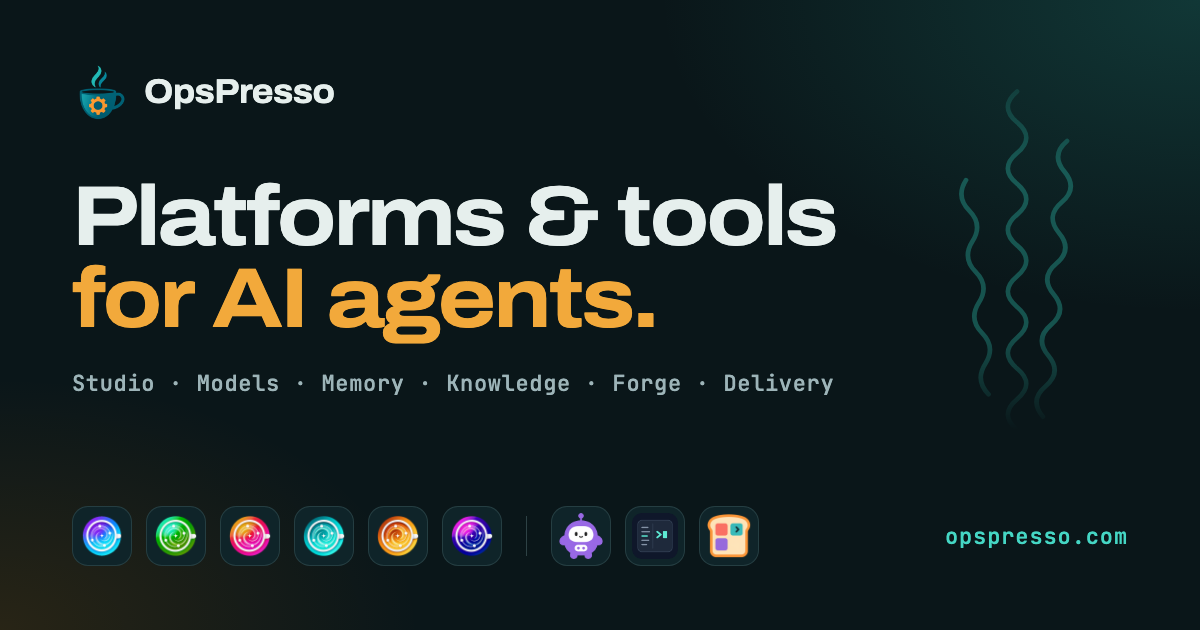
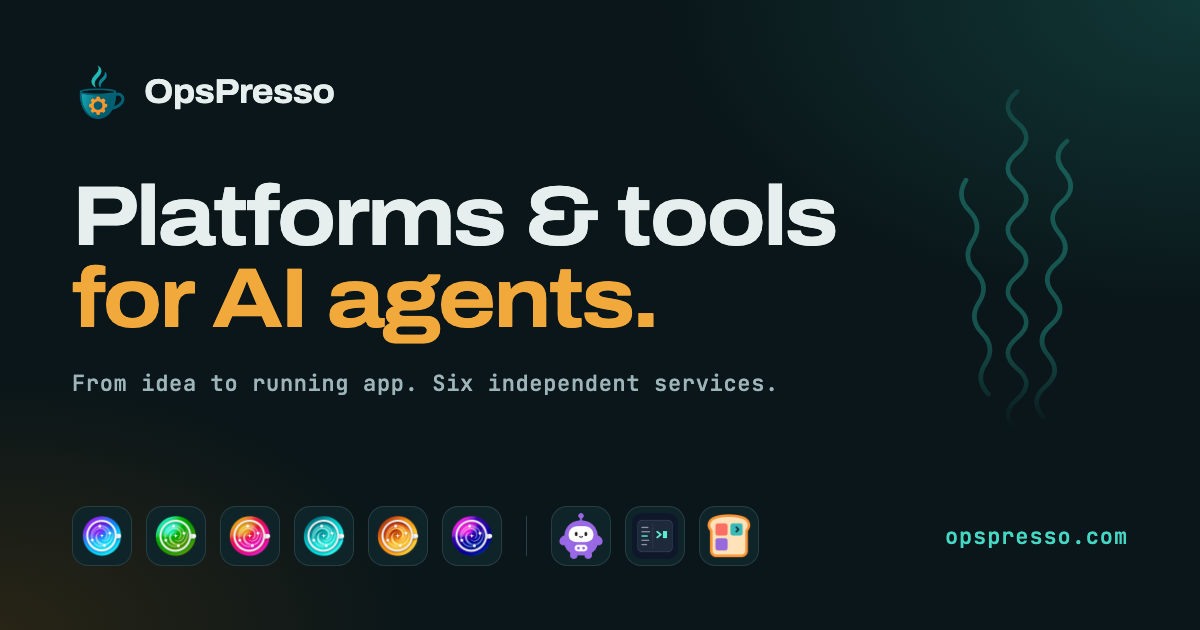
docs: align homepage with current Agent Platform (#6)

Changed region(s): [[0.0617, 0.573, 0.7092, 0.6333]]

diff --git a/docs/index.html b/docs/index.html
@@ -5,7 +5,7 @@
     <meta charset="utf-8">
     <meta name="viewport" content="width=device-width, initial-scale=1.0">
     <title>OpsPresso — Platforms and tools for AI agents</title>
-    <meta name="description" content="Build and operate AI agents with Studio, Models, Memory, Knowledge, Forge, and Delivery. Monitor resources and improve daily workflows with VibeMon, romty, and Toast.">
+    <meta name="description" content="Take ideas from agent conversations to running apps with six independent services: Studio, Models, Memory, Knowledge, Forge, and Delivery. Plus VibeMon, romty, and Toast.">
 
     <link rel="canonical" href="https://opspresso.com/">
     <link rel="icon" href="favicon.ico" sizes="any">
@@ -17,7 +17,7 @@
     <meta property="og:type" content="website">
     <meta property="og:url" content="https://opspresso.com/">
     <meta property="og:title" content="OpsPresso — Platforms and tools for AI agents">
-    <meta property="og:description" content="Build and operate AI agents with Studio, Models, Memory, Knowledge, Forge, and Delivery. Monitor resources and improve daily workflows with VibeMon, romty, and Toast.">
+    <meta property="og:description" content="Take ideas from agent conversations to running apps with six independent services: Studio, Models, Memory, Knowledge, Forge, and Delivery. Plus VibeMon, romty, and Toast.">
     <meta property="og:site_name" content="OpsPresso">
     <meta property="og:image" content="https://opspresso.com/images/og.png">
     <meta property="og:image:type" content="image/png">
@@ -26,7 +26,7 @@
     <meta property="og:image:alt" content="OpsPresso — Platforms and tools for AI agents">
     <meta name="twitter:card" content="summary_large_image">
     <meta name="twitter:title" content="OpsPresso — Platforms and tools for AI agents">
-    <meta name="twitter:description" content="Build and operate AI agents with Studio, Models, Memory, Knowledge, Forge, and Delivery. Monitor resources and improve daily workflows with VibeMon, romty, and Toast.">
+    <meta name="twitter:description" content="Take ideas from agent conversations to running apps with six independent services: Studio, Models, Memory, Knowledge, Forge, and Delivery. Plus VibeMon, romty, and Toast.">
     <meta name="twitter:image" content="https://opspresso.com/images/og.png">
     <meta name="twitter:image:alt" content="OpsPresso — Platforms and tools for AI agents">
 
@@ -94,7 +94,7 @@
             <div class="shell hero-inner">
                 <p class="mono eyebrow">Agent platforms · Developer tools · Reliable operations</p>
                 <h1 class="display">Platforms &amp; tools<br><span class="hero-emphasis">for AI agents.</span></h1>
-                <p class="lead">Build and operate AI agents with governed models, memory, knowledge, isolated workspaces, and the resources their apps need. Keep everyday work moving with monitoring, terminal, and launcher tools.</p>
+                <p class="lead">Build agents and take apps from an idea to deployment. Connect model routing, memory, knowledge, coding workspaces, and app delivery. Keep everyday work moving with monitoring, terminal, and launcher tools.</p>
                 <div class="hero-actions">
                     <a class="btn btn-hot" href="#platform">
                         Explore the platform
@@ -117,13 +117,13 @@
             <div class="shell">
                 <div class="section-head">
                     <h2 class="display">Agent Platform</h2>
-                    <p class="lead">Dedicated services for agent orchestration, model routing, durable context, grounded knowledge, isolated execution, and app resources. Deploy them in your own environment and connect the services you need.</p>
+                    <p class="lead">Six independent services, from agent orchestration to app delivery. Each owns its settings, data, permissions, and console. Studio brings their capabilities into agent conversations; each service stays responsible for its work.</p>
                 </div>
 
                 <figure class="arch" aria-labelledby="arch-title">
                     <figcaption class="arch-head">
                         <h3 class="display" id="arch-title">How the services fit together</h3>
-                        <p>Studio owns identity and orchestration. Memory, Knowledge, Forge, and Delivery do the work. Only Models holds provider keys, and only Agent Delivery creates app resources.</p>
+                        <p>Studio provides identity and orchestration. MCP connects agents to Memory, Knowledge, Forge, and Delivery. Models routes model calls. Forge develops the code; Delivery builds and deploys the app.</p>
                     </figcaption>
                     <div class="arch-map" data-arch-map></div>
                     <div class="arch-panel" data-arch-panel aria-live="polite">
@@ -131,6 +131,17 @@
                     </div>
                     <p class="mono arch-legend"><span><span class="arch-key arch-key-service"></span>Platform service</span><span><span class="arch-key arch-key-outside"></span>Client, content, or external system</span></p>
                 </figure>
+
+                <aside class="platform-foundations" aria-label="Shared platform foundations">
+                    <div>
+                        <h3 class="display">Shared contracts</h3>
+                        <p><code>agent-platform</code> holds architecture, service contracts, acceptance scenarios, and shared CI workflows. It keeps the services aligned as they evolve.</p>
+                    </div>
+                    <div>
+                        <h3 class="display"><a href="https://github.com/opspresso/agent-plugins" target="_blank" rel="noopener">Skills &amp; plugins ↗</a></h3>
+                        <p><code>agent-plugins</code> supplies reusable task guidance and MCP declarations for coding, research, design, and operations. Connections and permissions stay with the host and services.</p>
+                    </div>
+                </aside>
 
                 <article class="product p-studio" id="agent-studio">
                     <img class="product-mark" src="images/agent-studio.png" alt="Agent Studio" width="72" height="72" loading="lazy">
@@ -242,12 +253,12 @@
                     </div>
                     <div class="product-body">
                         <p class="product-pitch">Give agent work a place to run.</p>
-                        <p class="product-detail">Run commands and Codex, Claude, or OpenCode sessions in Docker or Kubernetes sandboxes. Workspaces and sessions persist across suspend and resume. Connect GitHub, push branches and pull requests, and approve merges, releases, and deploys after reviewing the diff.</p>
+                        <p class="product-detail">Run commands and Codex, Claude, or OpenCode sessions in Docker or Kubernetes sandboxes. Keep workspaces and sessions across suspend and resume. Manage profiles, GitHub connections, execution history, and protected Git actions in Forge, with approvals tied to the work being published.</p>
                         <ul class="tags">
                             <li>Persistent workspaces</li>
                             <li>Coding CLI sessions</li>
                             <li>Workspace profiles</li>
-                            <li>Approved releases</li>
+                            <li>Git approvals</li>
                         </ul>
                     </div>
                 </article>
@@ -261,16 +272,16 @@
                                 <path d="M7 17 17 7M9 7h8v8"/>
                             </svg>
                         </a>
-                        <p class="mono product-platform">Console · MCP · External Secrets</p>
+                        <p class="mono product-platform">Console · MCP · Argo Workflows</p>
                     </div>
                     <div class="product-body">
-                        <p class="product-pitch">Real databases and secrets for the apps agents build.</p>
-                        <p class="product-detail">Create PostgreSQL databases, object-storage prefixes, and secrets for each repository's dev and prod environments. Agents request them over MCP, and you enter secret values in the console, never in chat. Forge runs receive dev values masked in their output. Deployed apps receive prod values through External Secrets.</p>
+                        <p class="product-pitch">Take the apps agents build into production.</p>
+                        <p class="product-detail">Apply <code>application.yaml</code> to provision app resources and deliver secrets to workspaces and deployed apps. Build and test with Argo Workflows, deploy through GitOps, and promote the same release across environments. Review approvals, deployment logs, and rollback targets in Delivery. Enter secret values in its console, outside chat.</p>
                         <ul class="tags">
-                            <li>PostgreSQL databases</li>
-                            <li>Storage prefixes</li>
+                            <li>App resources</li>
                             <li>Secret delivery</li>
-                            <li>Audit trail</li>
+                            <li>Build &amp; deploy</li>
+                            <li>Promote &amp; rollback</li>
                         </ul>
                     </div>
                 </article>
@@ -281,45 +292,45 @@
             <div class="shell">
                 <div class="section-head">
                     <h2 class="display">From request to running app</h2>
-                    <p class="lead">One path from an agent request to a deployed app. Each service does one part. Git, the secret store, and GitOps hold the state.</p>
+                    <p class="lead">Plan in Studio, develop in Forge, and ship with Delivery. Keep decisions in Memory and source documents in Knowledge. Review protected actions in the service that owns them.</p>
                 </div>
 
                 <ol class="flow">
                     <li class="flow-step p-studio">
                         <div class="flow-head">
                             <span class="mono flow-num">01</span>
-                            <span class="flow-marks"><img src="images/agent-studio.png" alt="" width="34" height="34" loading="lazy"><img src="images/agent-models.png" alt="" width="34" height="34" loading="lazy"></span>
+                            <span class="flow-marks"><img src="images/agent-studio.png" alt="" width="34" height="34" loading="lazy"><img src="images/agent-memory.png" alt="" width="34" height="34" loading="lazy"><img src="images/agent-knowledge.png" alt="" width="34" height="34" loading="lazy"></span>
                         </div>
-                        <h3 class="display">Ask</h3>
-                        <p>An agent in Studio takes the request with approved models, skills, and MCP tools. Studio enforces tool approvals and spending limits.</p>
-                        <p class="mono flow-svc">Agent Studio · Agent Models</p>
-                    </li>
-                    <li class="flow-step p-delivery">
-                        <div class="flow-head">
-                            <span class="mono flow-num">02</span>
-                            <span class="flow-marks"><img src="images/agent-delivery.png" alt="" width="34" height="34" loading="lazy"></span>
-                        </div>
-                        <h3 class="display">Provision</h3>
-                        <p>The agent asks Agent Delivery for a PostgreSQL database or a storage prefix for the repository. You enter secret values in the Agent Delivery console, so they never pass through chat.</p>
-                        <p class="mono flow-svc">Agent Delivery</p>
+                        <h3 class="display">Plan</h3>
+                        <p>Describe the app in Studio. The agent uses approved models and MCP tools, recalls decisions from Memory, and finds source material in Knowledge.</p>
+                        <p class="mono flow-svc">Studio · Models · Memory · Knowledge</p>
                     </li>
                     <li class="flow-step p-forge">
                         <div class="flow-head">
-                            <span class="mono flow-num">03</span>
-                            <span class="flow-marks"><img src="images/agent-forge.png" alt="" width="34" height="34" loading="lazy"><img src="images/agent-memory.png" alt="" width="34" height="34" loading="lazy"></span>
+                            <span class="mono flow-num">02</span>
+                            <span class="flow-marks"><img src="images/agent-forge.png" alt="" width="34" height="34" loading="lazy"></span>
                         </div>
-                        <h3 class="display">Build</h3>
-                        <p>Forge runs the coding CLI in an isolated sandbox with the dev values injected and masked in its output. Memory carries decisions and handoffs between sessions.</p>
-                        <p class="mono flow-svc">Agent Forge · Agent Memory</p>
+                        <h3 class="display">Develop</h3>
+                        <p>Forge writes code and application.yaml, runs checks in a sandbox, and opens a pull request. Review the diff and approve protected Git actions in Forge.</p>
+                        <p class="mono flow-svc">Agent Forge</p>
                     </li>
-                    <li class="flow-step is-ship">
+                    <li class="flow-step p-delivery">
+                        <div class="flow-head">
+                            <span class="mono flow-num">03</span>
+                            <span class="flow-marks"><img src="images/agent-delivery.png" alt="" width="34" height="34" loading="lazy"></span>
+                        </div>
+                        <h3 class="display">Provision</h3>
+                        <p>Apply application.yaml in Delivery to create resources for each environment. Enter secrets in its console. Forge receives development values; deployed apps receive values through External Secrets.</p>
+                        <p class="mono flow-svc">Agent Delivery</p>
+                    </li>
+                    <li class="flow-step p-delivery is-ship">
                         <div class="flow-head">
                             <span class="mono flow-num">04</span>
-                            <span class="flow-marks"><img src="images/agent-forge.png" alt="" width="34" height="34" loading="lazy"><img src="images/agent-delivery.png" alt="" width="34" height="34" loading="lazy"></span>
+                            <span class="flow-marks"><img src="images/agent-delivery.png" alt="" width="34" height="34" loading="lazy"></span>
                         </div>
-                        <h3 class="display">Ship</h3>
-                        <p>Review the diff, then approve the merge and the release in Forge. GitOps deploys the app, and External Secrets delivers its prod values from the secret store.</p>
-                        <p class="mono flow-svc">Agent Forge · Agent Delivery</p>
+                        <h3 class="display">Deploy &amp; operate</h3>
+                        <p>Delivery builds and tests a release, then deploys it through GitOps. Promote the same release with the required approval, inspect logs, or roll back to the previous release.</p>
+                        <p class="mono flow-svc">Agent Delivery · Argo Workflows · GitOps</p>
                     </li>
                 </ol>
             </div>
@@ -457,6 +468,7 @@
                         <li><a href="https://knowledge.agrt.dev" target="_blank" rel="noopener">Agent Knowledge</a></li>
                         <li><a href="https://forge.agrt.dev" target="_blank" rel="noopener">Agent Forge</a></li>
                         <li><a href="https://delivery.agrt.dev" target="_blank" rel="noopener">Agent Delivery</a></li>
+                        <li><a href="https://github.com/opspresso/agent-plugins" target="_blank" rel="noopener">Skills &amp; plugins</a></li>
                     </ul>
                 </nav>
                 <nav class="footer-col" aria-label="Developer Tools">

diff --git a/docs/js/platform-map.js b/docs/js/platform-map.js
@@ -29,10 +29,10 @@
         },
         {
             id: 'studio', title: 'Agent Studio', product: true,
-            sub: ['Identity · agents', 'approvals · budgets'], short: 'Agent Studio',
+            sub: ['Identity · agents', 'MCP orchestration'], short: 'Agent Studio',
             box: { wide: [256, 200, 208, 124], narrow: [84, 124, 232, 84] },
             href: '#agent-studio',
-            detail: 'Owns users, permissions, and agents. It is the OIDC provider for every service, enforces tool approvals and spending limits, and orchestrates work across Memory, Knowledge, Forge, and Delivery.'
+            detail: 'Owns agent configuration, conversations, run traces, and execution policy. Provides OIDC identity for the platform and connects to Memory, Knowledge, Forge, and Delivery through MCP. Each service owns its console, data, settings, and approvals.'
         },
         {
             id: 'memory', title: 'Agent Memory', product: true,
@@ -46,21 +46,21 @@
             sub: ['Documents, audio,', 'and knowledge'], short: 'Knowledge',
             box: { wide: [552, 196, 208, 84], narrow: [100, 268, 78, 76] },
             href: '#agent-knowledge',
-            detail: 'Holds documents, recordings, transcripts, meeting notes, and the knowledge graph. Before it spends on models, it asks Studio to authorize, reserve, and settle the cost.'
+            detail: 'Owns documents, recordings, transcripts, meeting notes, and source-linked knowledge. Its console manages audio profiles and processing history; retrieval respects source permissions. Model calls go through Models.'
         },
         {
             id: 'forge', title: 'Agent Forge', product: true,
             sub: ['Workspaces', 'and sandboxes'], short: 'Forge',
             box: { wide: [552, 372, 208, 84], narrow: [186, 268, 78, 76] },
             href: '#agent-forge',
-            detail: 'Keeps persistent workspaces and runs commands and coding CLIs in isolated sandboxes. It asks Studio to authorize model spend, sends sandbox model calls through Models, and injects Agent Delivery’s dev values into each run.'
+            detail: 'Owns persistent workspaces, execution profiles, GitHub connections, and protected Git approvals. Runs commands and coding CLIs in isolated sandboxes, routes model calls through Models, and receives development values from Delivery.'
         },
         {
             id: 'delivery', title: 'Agent Delivery', product: true,
-            sub: ['App resources', 'and secrets'], short: 'Delivery',
+            sub: ['Resources · secrets', 'build · deploy · promote'], short: 'Delivery',
             box: { wide: [552, 532, 208, 84], narrow: [274, 268, 78, 76] },
             href: '#agent-delivery',
-            detail: 'Creates PostgreSQL databases, storage prefixes, and secrets for each repository’s dev and prod environments. Values stay in the secret store. Its MCP tools never return them.'
+            detail: 'Applies application.yaml, provisions app resources, and delivers secrets. Owns releases, deployment approvals, logs, environment promotion, and rollback. Argo Workflows builds and tests; GitOps deploys the release. Secret values stay outside MCP responses.'
         },
         {
             id: 'sandbox', title: 'Sandboxes', outside: true,
@@ -90,9 +90,21 @@
         },
         {
             id: 'apps', title: 'Deployed apps', outside: true,
-            sub: ['GitOps · External Secrets'], short: 'Deployed apps',
-            box: { wide: [840, 666, 184, 64], narrow: [186, 528, 166, 84] },
-            detail: 'Each project environment runs in its own namespace that GitOps declares. External Secrets reads only that environment’s values. A restart applies changed values.'
+            sub: ['Release · environment', 'GitOps · External Secrets'], short: 'Deployed apps',
+            box: { wide: [840, 666, 184, 64], narrow: [186, 592, 166, 68] },
+            detail: 'GitOps declares the release for each project environment. Delivery tracks deployment results, promotes the same image digest, and can roll back to a previous release. External Secrets supplies environment values.'
+        },
+        {
+            id: 'workflows', title: 'Build & deploy', outside: true,
+            sub: ['Argo Workflows · GitOps'], short: 'Build & deploy',
+            box: { wide: [552, 666, 208, 64], narrow: [186, 498, 166, 56] },
+            detail: 'Delivery submits and observes build, test, and deployment workflows. A release records its source revision and image digest. GitOps applies the deployment, and Delivery reports the result.'
+        },
+        {
+            id: 'platform', title: 'agent-platform', outside: true,
+            sub: ['Contracts · acceptance', 'shared CI workflows'], short: 'agent-platform',
+            box: { wide: [16, 560, 184, 84], narrow: [8, 700, 344, 68] },
+            detail: 'The shared repository for architecture, service contracts, acceptance scenarios, and CI workflows. It defines how the platform fits together and how to verify it; it is not a running service.'
         }
     ];
 
@@ -105,17 +117,17 @@
             from: 'studio', to: 'memory', label: 'User grant over MCP for memories and handoffs',
             path: { narrow: 'M100 208 C100 240 47 236 47 268' }
         },
-        { from: 'studio', to: 'knowledge', label: 'User grant over HTTP and MCP for documents, graph, and audio' },
-        { from: 'studio', to: 'forge', label: 'User grant for workspaces, runs, and Git' },
+        { from: 'studio', to: 'knowledge', label: 'User grant over MCP for documents, graph, and audio' },
+        { from: 'studio', to: 'forge', label: 'User grant over MCP for workspaces, runs, and Git; approvals stay in Forge' },
         {
-            from: 'studio', to: 'delivery', label: 'User grant over MCP for projects and resources, without values or deletes',
+            from: 'studio', to: 'delivery', label: 'User grant over MCP for resources and app delivery; secret entry and approvals stay in Delivery',
             path: {
                 wide: 'M400 324 V564 Q400 574 410 574 H552',
                 narrow: 'M300 208 C300 240 313 236 313 268'
             }
         },
         {
-            from: 'studio', to: 'models', label: 'Per-call grant bound to one request and one approved model',
+            from: 'studio', to: 'models', label: 'Current model HTTP API with a per-call grant for one approved model',
             path: {
                 wide: 'M430 324 V332 Q430 342 440 342 H870 Q880 342 880 332 V294',
                 narrow: 'M93 208 V400'
@@ -130,11 +142,19 @@
             path: { narrow: 'M244 344 C244 372 300 372 300 344' }
         },
         { from: 'delivery', to: 'resources', label: 'Creates databases and prefixes, and stores values in SSM' },
-        { from: 'resources', to: 'apps', label: 'External Secrets delivers prod values; Pod Identity limits the prefix' },
+        {
+            from: 'delivery', to: 'workflows', label: 'Build, test, and deploy; observe the result before reporting success',
+            path: { narrow: 'M300 344 C300 368 268 364 268 380 V480 Q268 490 269 498' }
+        },
+        { from: 'workflows', to: 'apps', label: 'GitOps deploys the release to the selected environment' },
+        {
+            from: 'resources', to: 'apps', label: 'External Secrets delivers only the target environment’s values',
+            path: { narrow: 'M313 456 V472 Q313 482 328 482 H346 Q356 482 356 492 V616 Q356 626 352 626' }
+        },
         { from: 'models', to: 'providers', label: 'Only Models holds provider keys' }
     ];
 
-    var VIEW = { wide: [1040, 746], narrow: [360, 624] };
+    var VIEW = { wide: [1040, 746], narrow: [360, 784] };
 
     var byId = {};
     NODES.forEach(function (node) { byId[node.id] = node; });

diff --git a/docs/policy.html b/docs/policy.html
@@ -48,6 +48,7 @@
                 <img src="images/opspresso.png" alt="" width="30" height="30">OpsPresso
             </a>
             <a class="nav-link nav-link-section" href="./#platform">Platform</a>
+            <a class="nav-link nav-link-section" href="./#workflow">Workflow</a>
             <a class="nav-link nav-link-section" href="./#tools">Tools</a>
             <a class="nav-link nav-link-github" href="https://github.com/opspresso" target="_blank" rel="noopener">GitHub</a>
             <a class="nav-link" href="policy.html" aria-current="page">Policy</a>
@@ -127,6 +128,7 @@
                         <li><a href="https://knowledge.agrt.dev" target="_blank" rel="noopener">Agent Knowledge</a></li>
                         <li><a href="https://forge.agrt.dev" target="_blank" rel="noopener">Agent Forge</a></li>
                         <li><a href="https://delivery.agrt.dev" target="_blank" rel="noopener">Agent Delivery</a></li>
+                        <li><a href="https://github.com/opspresso/agent-plugins" target="_blank" rel="noopener">Skills &amp; plugins</a></li>
                     </ul>
                 </nav>
                 <nav class="footer-col" aria-label="Developer Tools">

diff --git a/docs/css/style.css b/docs/css/style.css
@@ -473,6 +473,25 @@ a:hover {
     margin: 0.9rem 0 0;
 }
 
+/* --- Shared foundations -------------------------------------------------- */
+
+.platform-foundations {
+    display: grid;
+    grid-template-columns: repeat(2, minmax(0, 1fr));
+    gap: 1.5rem;
+    margin-bottom: clamp(2.5rem, 5vw, 3.5rem);
+    padding-block: 1.5rem;
+    border-block: 1px solid var(--line-soft);
+}
+
+.platform-foundations h3 { font-size: 1.1rem; }
+.platform-foundations p { margin: 0.6rem 0 0; color: var(--text-muted); }
+.platform-foundations code { font-size: 0.9em; }
+
+@media (max-width: 640px) {
+    .platform-foundations { grid-template-columns: 1fr; }
+}
+
 /* --- Platform map --------------------------------------------------------- */
 
 .arch {

diff --git a/og/index.html b/og/index.html
@@ -38,7 +38,7 @@
     <div class="frame">
         <div class="brand"><img src="../docs/images/opspresso.png" alt="">OpsPresso</div>
         <h1>Platforms &amp; tools<br><span>for AI agents.</span></h1>
-        <p class="sub">Studio · Models · Memory · Knowledge · Forge · Delivery</p>
+        <p class="sub">From idea to running app. Six independent services.</p>
         <div class="marks">
             <img src="../docs/images/agent-studio.png" alt="">
             <img src="../docs/images/agent-models.png" alt="">

diff --git a/README.md b/README.md
@@ -15,14 +15,22 @@ OpsPresso builds services for operating AI agents and tools for the people build
 
 ### Agent Platform
 
+Six independent services own their settings, data, permissions, and consoles. Studio orchestrates work through MCP with Memory, Knowledge, Forge, and Delivery; Models provides the central model gateway.
+
 | Service | Purpose |
 | --- | --- |
 | [Agent Studio](https://studio.agrt.dev) | Configure agents with approved models, skills, and MCP tools; run them from chat, APIs, messaging, or automation with approvals, traces, and spending limits. |
 | [Agent Models](https://models.agrt.dev) | Connect model providers, approve models, route requests, and track usage and cost. |
 | [Agent Memory](https://memory.agrt.dev) | Store durable context, recall it in Studio and coding clients, share it by scope, and hand off work between sessions. |
 | [Agent Knowledge](https://knowledge.agrt.dev) | Collect documents and audio; provide transcription, meeting notes, source-linked search, knowledge graphs, and ontology objects. |
-| [Agent Forge](https://forge.agrt.dev) | Run coding agents and commands in isolated sandboxes with persistent workspaces, Git workflows, and approved releases. |
-| [Agent Delivery](https://delivery.agrt.dev) | Create PostgreSQL databases, storage prefixes, and secrets for agent-built apps; deliver dev values to Forge runs and prod values through External Secrets. |
+| [Agent Forge](https://forge.agrt.dev) | Own persistent workspaces, coding CLI sessions, execution profiles, GitHub connections, and approvals for protected Git actions. |
+| [Agent Delivery](https://delivery.agrt.dev) | Apply application.yaml, provision resources and secrets, build and test with Argo Workflows, and deploy, promote, or roll back releases through GitOps. |
+
+`agent-platform` holds shared architecture, service contracts, acceptance scenarios, and CI workflows. It contains no service runtime. [agent-plugins](https://github.com/opspresso/agent-plugins) supplies reusable skills and MCP declarations; installing content does not grant access to services.
+
+The homepage describes the current implementation. Studio's Models connection still uses HTTP APIs; do not describe the platform's MCP-only design principle as a completed migration. Verify this boundary against `agent-platform/docs/ARCHITECTURE.md` and Studio's model router when updating the map.
+
+The app workflow is **plan → develop and review → provision → deploy and operate**. Forge owns protected Git approvals; Delivery owns app deployment approvals, environment promotion, and rollback.
 
 ### Developer Tools
 
@@ -44,7 +52,7 @@ Open <http://127.0.0.1:8000/>. Stop the server with `Ctrl+C`.
 
 ## Content and deployment
 
-- `docs/index.html`: Homepage, product sections, the request-to-app workflow, and social preview metadata.
+- `docs/index.html`: Homepage, service responsibilities, shared foundations, the request-to-app workflow, and social preview metadata.
 - `docs/policy.html`: Privacy policy, with the same navigation and product links.
 - `docs/css/style.css`: Shared layout, product accents, responsive styles, and themes.
 - `docs/js/theme.js`: Theme selection and persistence.
